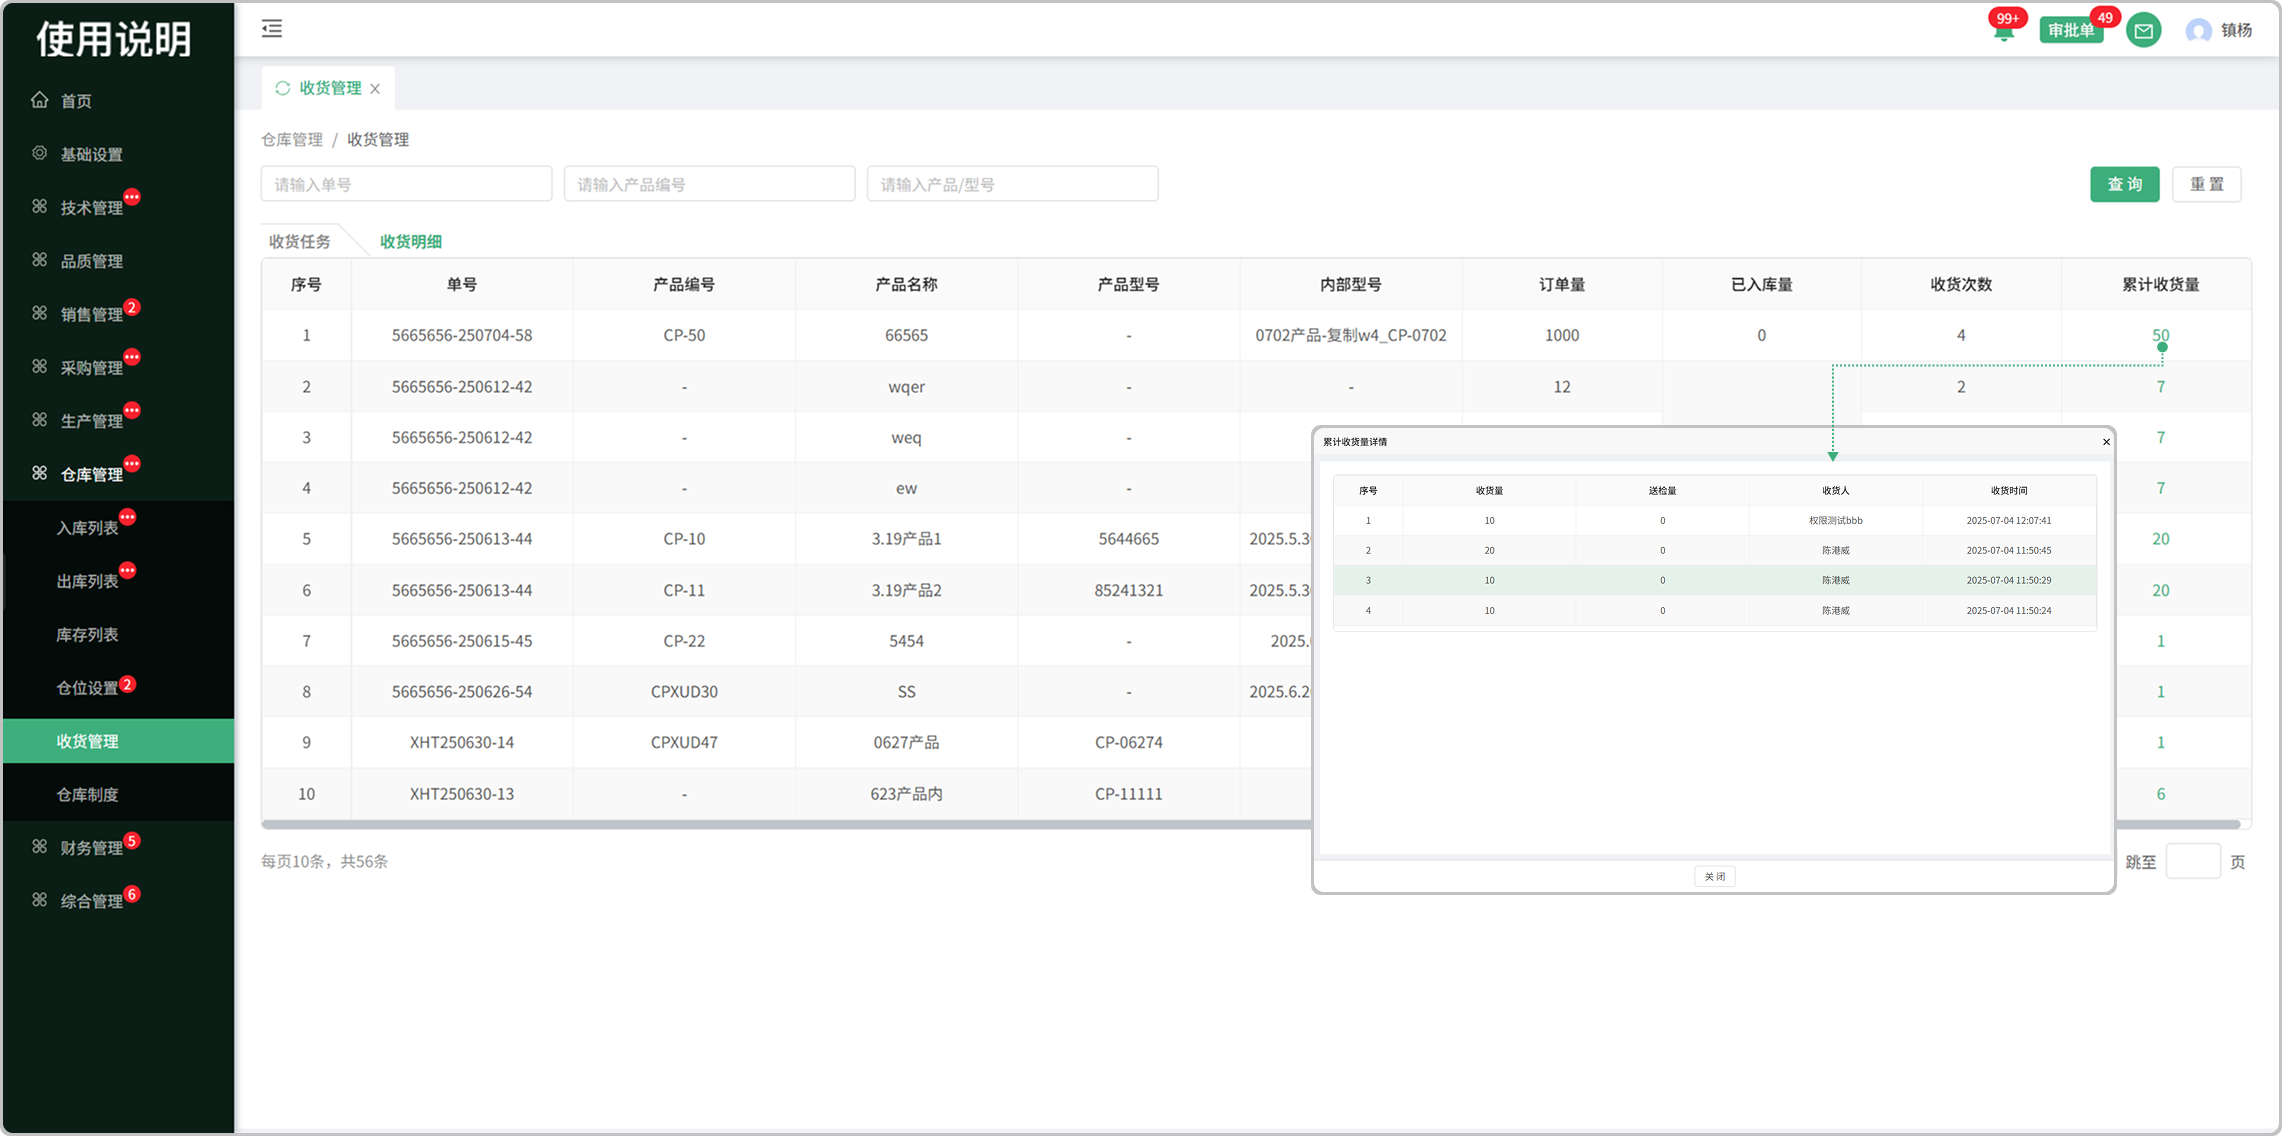
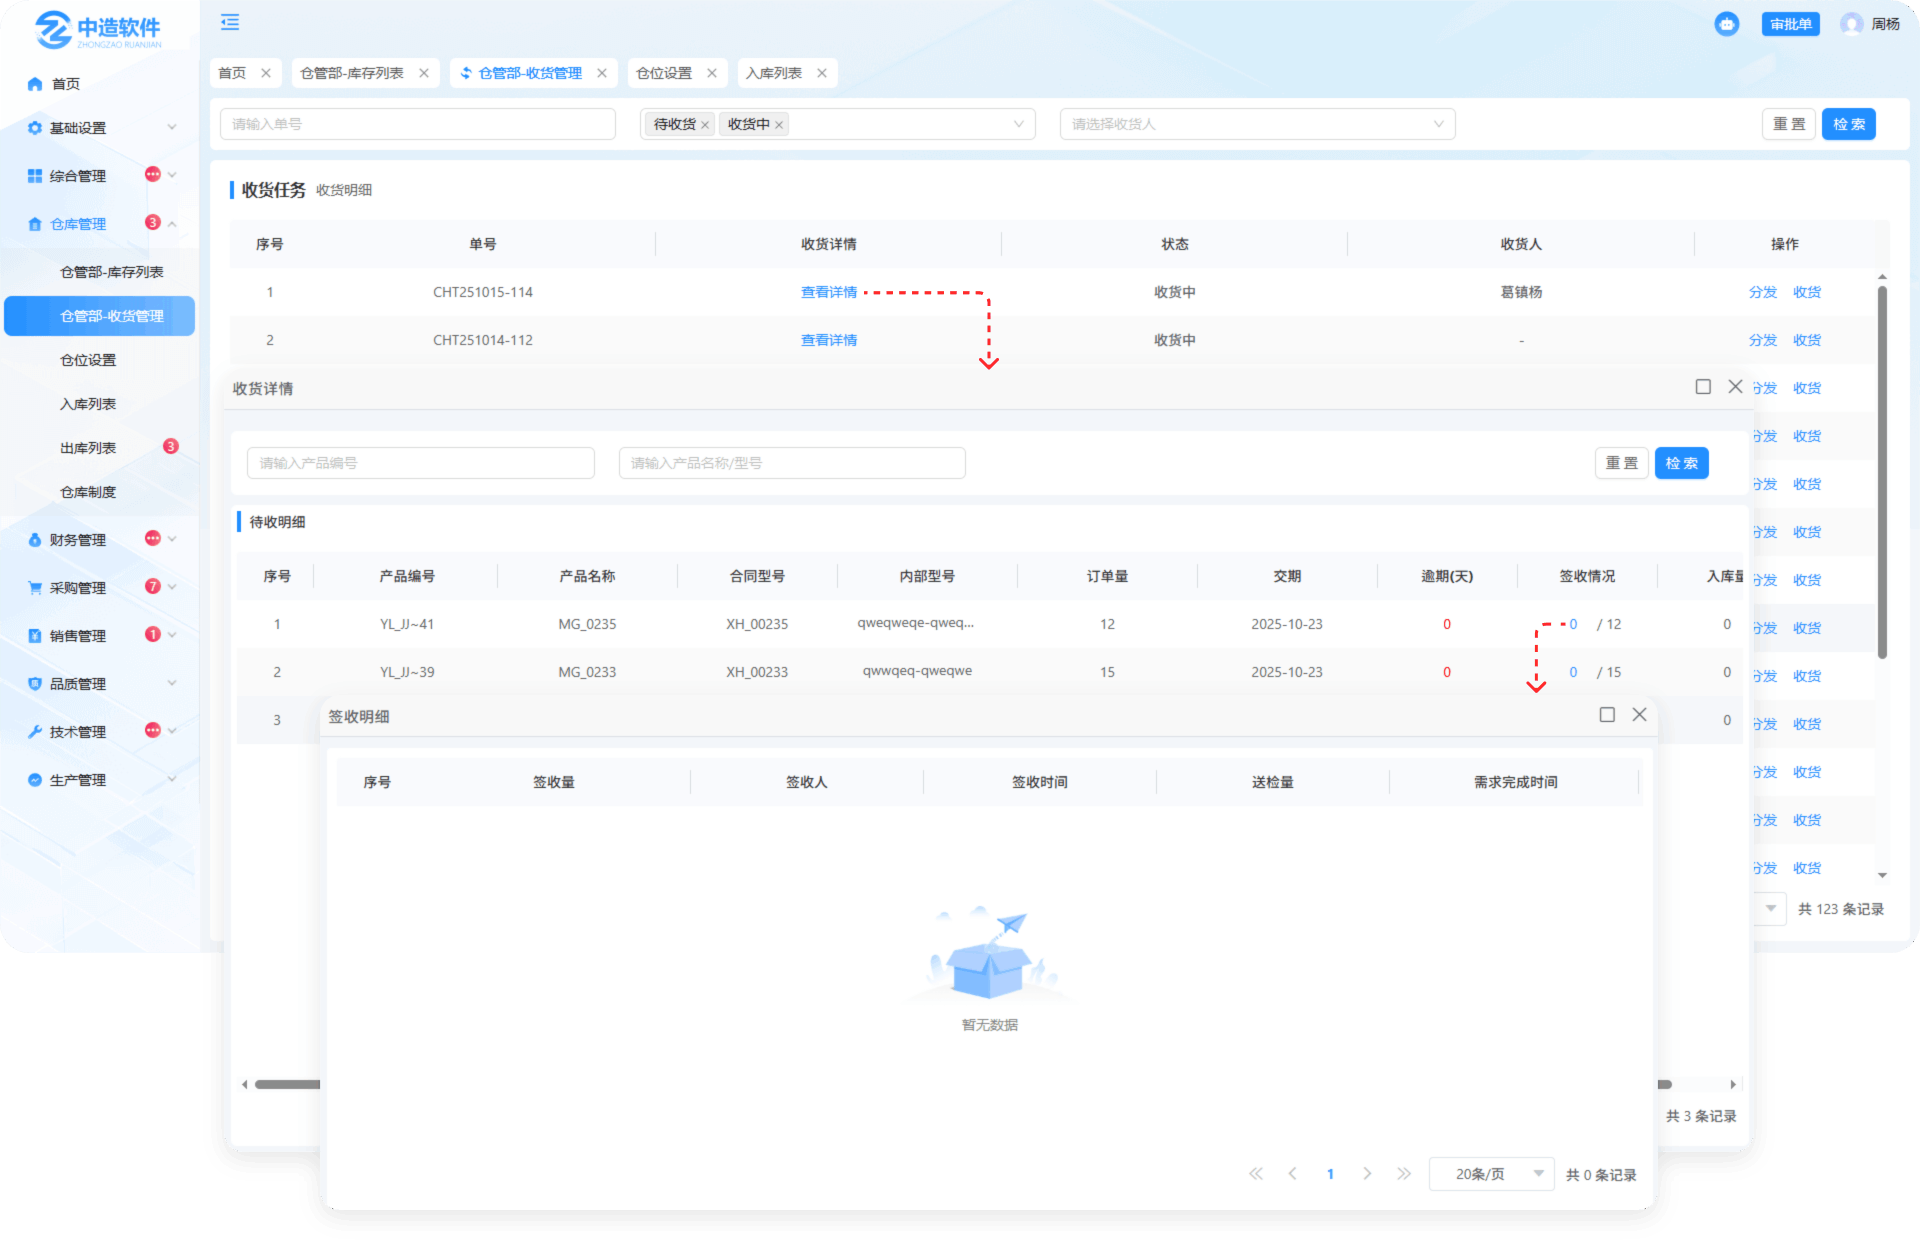
10.23更新

diff --git a/docs/仓储管理/收货管理.md b/docs/仓储管理/收货管理.md
@@ -10,22 +10,17 @@
 * 点击收货详情可查看产品/部件等待收明细的详细信息
 * 点击签收情况下对应的数字查看签收明细
 
-#### 2.编辑
 
-* 已完成状态下的收货任务，可点击编辑修改状态
-    - 状态修改成收货中时，分发和收货按钮再次显示，编辑按钮隐藏
-    - 不能改为待收货
+![如图所示](../file/cg-shgl3.png)
 
-![如图所示](../file/cg-shgl2.png)
-
-#### 3.分发
+#### 2.分发
 
 * 点击分发按钮可将对应的收货单分发给指定的人来完成（支持分发给多个人）
 
 
-#### 4.收货
+#### 3.收货
 
-* 点击收货按钮对采购回来的产品/部件等进行签收
+* 点击收货按钮对采购回来的产品/部件等进行签收，同时可对请进行内部型号更换
 * 如果签收的产品部件等带有质检项，可进行送检到品质部进行检验入库
 * 点击签收情况下对应的数字查看签收明细
 
@@ -39,7 +34,7 @@
 
 * 累计收货量可查看当前单号所有收货记录
 
-![如图所示](../file/cg-shgl3.png)
+![如图所示](../file/cg-shgl2.png)
 
 
 
